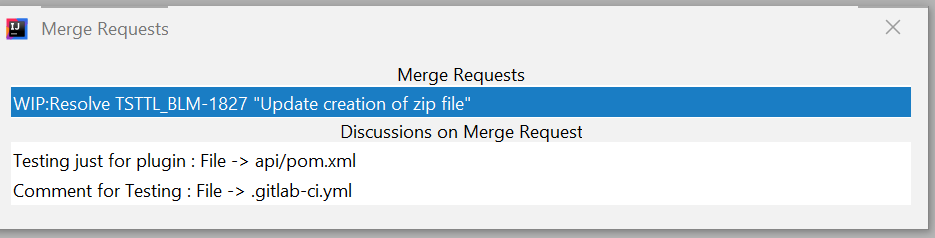
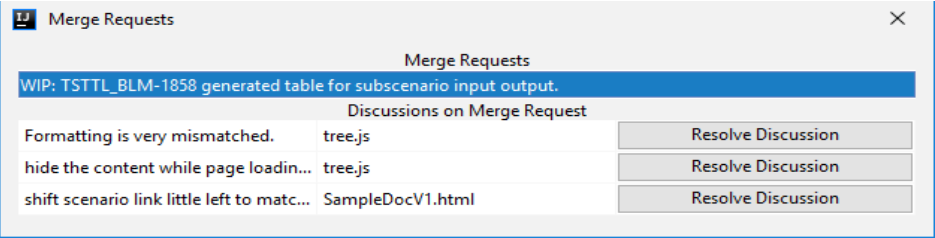
Resolve Feature updates and performance improvements

diff --git a/src/main/kotlin/com/mg/git/discussion/GetGitDisucussion.kt b/src/main/kotlin/com/mg/git/discussion/GetGitDisucussion.kt
@@ -7,17 +7,12 @@ import org.gitlab.api.Pagination
 import org.gitlab.api.models.GitlabMergeRequest
 import org.gitlab.api.models.GitlabProject
 
-fun gitLabMergeRequests(listOfMergeRequest: List<GitlabMergeRequest>): ArrayList<MergeRequestModel> {
-    var listOfMergeRequestsModels = ArrayList<MergeRequestModel>()
-    for (gitlabMergeRequest in listOfMergeRequest) {
-        var discussionsList = getMRDiscussions(gitlabMergeRequest)
-        var mergeRequestModel = MergeRequestModel(gitlabMergeRequest, discussionsList)
-        listOfMergeRequestsModels.add(mergeRequestModel)
-    }
-    return listOfMergeRequestsModels
+fun gitLabMergeRequestsWithDiscussions(gitlabMergeRequest: GitlabMergeRequest): MergeRequestModel {
+    var discussionsList = getMRDiscussions(gitlabMergeRequest)
+    return MergeRequestModel(gitlabMergeRequest, discussionsList)
 }
 
-fun getMRDiscussions(mergeRequest: GitlabMergeRequest): List<GitLabDiscussionsModel> {
+private fun getMRDiscussions(mergeRequest: GitlabMergeRequest): List<GitLabDiscussionsModel> {
     val tailUrl = GitlabProject.URL + "/" + mergeRequest.projectId +
             GitlabMergeRequest.URL + "/" + mergeRequest.iid +
             GitLabDiscussionsModel.URL + Pagination().withPerPage(Pagination.MAX_ITEMS_PER_PAGE).toString()
@@ -26,6 +21,6 @@ fun getMRDiscussions(mergeRequest: GitlabMergeRequest): List<GitLabDiscussionsMo
         .getAll(tailUrl, Array<GitLabDiscussionsModel>::class.java)
         .filter { models -> models.notes.get(0).type == "DiffNote" && !models.notes.get(0).isResolved }
 
-    listOfGitLabDiscussionsModel.forEach { model-> model.notes.forEach { note-> note.discussionId = model.id }}
+    listOfGitLabDiscussionsModel.forEach { model -> model.notes.forEach { note -> note.discussionId = model.id } }
     return listOfGitLabDiscussionsModel
 }

diff --git a/src/test/kotlin/com/mg/discussion/DiscussionResolutionTest.kt b/src/test/kotlin/com/mg/discussion/DiscussionResolutionTest.kt
@@ -1,7 +1,7 @@
 package com.mg.discussion
 
 import com.mg.git.discussion.ResolveMRDiscussionsController
-import com.mg.git.merge.getMergeRequests
+import com.mg.git.merge.getAllMergeRequests
 import com.mg.mergerequest.GitTestCommons
 import org.junit.jupiter.api.Order
 import org.junit.jupiter.api.Test
@@ -14,20 +14,19 @@ class DiscussionResolutionTest : GitTestCommons() {
     @Test
     @Order(1)
     fun resolveDiscussion_shouldResolveDiscussionThread() {
-        val listOfMergeRequest = getMergeRequests(projectId)
+        val listOfMergeRequest = getAllMergeRequests(projectId)
         val resolveMergeRequestDiscussions = ResolveMRDiscussionsController()
-        val result = resolveMergeRequestDiscussions.resolveDiscussion(discussionId, projectId, listOfMergeRequest.get(0), true);
+        val result = resolveMergeRequestDiscussions.resolveDiscussion(discussionId, listOfMergeRequest.get(0), true);
         assertEquals(true, result)
     }
 
     @Test
     @Order(10)
     fun unResolveDiscussion_shouldUnResolveDiscussionThread() {
-        val listOfMergeRequest = getMergeRequests(projectId)
+        val listOfMergeRequest = getAllMergeRequests(projectId)
         val resolveMergeRequestDiscussions = ResolveMRDiscussionsController()
         val result = resolveMergeRequestDiscussions.resolveDiscussion(
             discussionId,
-            projectId,
             listOfMergeRequest.get(0),
             false
         );

diff --git a/src/main/kotlin/com/mg/git/MainTester.kt b/src/main/kotlin/com/mg/git/MainTester.kt
@@ -1,8 +1,8 @@
 package com.mg.git
 
 import com.mg.git.connection.GitConnectionProvider
-import com.mg.git.discussion.gitLabMergeRequests
-import com.mg.git.merge.getMergeRequests
+import com.mg.git.discussion.gitLabMergeRequestsWithDiscussions
+import com.mg.git.merge.getAllMergeRequests
 
 val hostUrl = "https://innersource.soprasteria.com/"
 val token = System.getenv("ENV_GIT_TOKEN")
@@ -10,15 +10,13 @@ val nameSpace = "t-tool"
 val projectName = "t-tool"
 
 fun main() {
-    GitConnectionProvider.getGitConnectionInstance(hostUrl, token)
+    GitConnectionProvider.createGitConnectionInstance(hostUrl, token)
     GitConnectionProvider.fetchProjectId(nameSpace, projectName)
 
-    var listOfMergeRequest = getMergeRequests(GitConnectionProvider.projectId)
-    var listOfMergeRequestsModels = gitLabMergeRequests(listOfMergeRequest)
+    var listOfMergeRequest = getAllMergeRequests(GitConnectionProvider.projectId)
+    var listOfMergeRequestsModels = gitLabMergeRequestsWithDiscussions(listOfMergeRequest.get(0))
 
-    for (model in listOfMergeRequestsModels) {
-        println(model.mergeRequest.id)
-        println(model.listOfMRDiscussions.size)
-    }
+    println(listOfMergeRequestsModels.mergeRequest.assignee)
+    println(listOfMergeRequestsModels.listOfMRDiscussions.size)
 
 }

diff --git a/src/test/kotlin/com/mg/mergerequest/TestMergeRequestDiscussions.kt b/src/test/kotlin/com/mg/mergerequest/TestMergeRequestDiscussions.kt
@@ -1,20 +1,18 @@
 package com.mg.mergerequest
 
-import com.mg.git.discussion.getMRDiscussions
-import com.mg.git.discussion.gitLabMergeRequests
-import com.mg.git.merge.MergeRequestModel
-import com.mg.git.merge.getMergeRequests
+import com.mg.git.discussion.gitLabMergeRequestsWithDiscussions
+import com.mg.git.merge.getAllMergeRequests
 import org.junit.jupiter.api.Test
 import kotlin.test.assertEquals
 import kotlin.test.assertNotNull
 
-class TestMergeRequestDiscussions : GitTestCommons(){
+class TestMergeRequestDiscussions : GitTestCommons() {
 
     @Test
     fun readMergeRequest_shouldReadMergeRequest() {
-        var listOfMergeRequest = getMergeRequests(projectId)
-        var listOfMergeRequestsModels = gitLabMergeRequests(listOfMergeRequest)
+        var listOfMergeRequest = getAllMergeRequests(projectId)
+        var listOfMergeRequestsModels = gitLabMergeRequestsWithDiscussions(listOfMergeRequest.get(0))
         assertNotNull(listOfMergeRequestsModels)
-        assertEquals(2, listOfMergeRequestsModels.size)
+        assertEquals(2, listOfMergeRequestsModels.listOfMRDiscussions.size)
     }
 }

diff --git a/src/main/kotlin/com/mg/git/discussion/ResolveMRDiscussionsController.kt b/src/main/kotlin/com/mg/git/discussion/ResolveMRDiscussionsController.kt
@@ -13,16 +13,15 @@ class ResolveMRDiscussionsController {
 
     fun resolveDiscussion(
         discussionId: String,
-        projectId: Int,
         mergeRequest: GitlabMergeRequest,
         resolveFlag: Boolean
     ): Boolean? {
         val tailUrl = GitlabProject.URL + "/" + mergeRequest.projectId +
                 GitlabMergeRequest.URL + "/" + mergeRequest.iid +
                 GitLabDiscussionsModel.URL + "/" + discussionId + Pagination().withPerPage(Pagination.MAX_ITEMS_PER_PAGE).toString() + resolved + resolveFlag
-        var httpRequestor: GitlabHTTPRequestor = GitConnectionProvider.gitlabAPI.retrieve()
-        httpRequestor = httpRequestor.method("PUT")
-        var model: GitLabDiscussionsModel? = httpRequestor.to(tailUrl, GitLabDiscussionsModel::class.java)
+        var httpRequester: GitlabHTTPRequestor = GitConnectionProvider.gitlabAPI.retrieve()
+        httpRequester = httpRequester.method("PUT")
+        var model: GitLabDiscussionsModel? = httpRequester.to(tailUrl, GitLabDiscussionsModel::class.java)
         return model?.notes?.get(0)?.isResolved!!
     }
 

diff --git a/src/main/kotlin/com/mg/git/provider/GitLabMergeRequestProvider.kt b/src/main/kotlin/com/mg/git/provider/GitLabMergeRequestProvider.kt
@@ -1,0 +1,18 @@
+package com.mg.git.provider
+
+import com.mg.git.connection.GitConnectionProvider
+import com.mg.git.discussion.gitLabMergeRequestsWithDiscussions
+import com.mg.git.merge.MergeRequestModel
+import com.mg.git.merge.getAllMergeRequests
+import org.gitlab.api.models.GitlabMergeRequest
+
+class GitLabMergeRequestProvider : GitIntegrationProvider {
+
+    override fun getAllMergeRequests(): List<GitlabMergeRequest> {
+        return getAllMergeRequests(GitConnectionProvider.projectId)
+    }
+
+    override fun getMergeRequestsWithDiscussions(mergeRequest: GitlabMergeRequest): MergeRequestModel {
+        return gitLabMergeRequestsWithDiscussions(mergeRequest)
+    }
+}

diff --git a/src/main/kotlin/com/mg/git/provider/GitIntegrationProvider.kt b/src/main/kotlin/com/mg/git/provider/GitIntegrationProvider.kt
@@ -1,0 +1,17 @@
+package com.mg.git.provider
+
+import com.mg.git.connection.GitConnectionProvider
+import com.mg.git.merge.MergeRequestModel
+import org.gitlab.api.models.GitlabMergeRequest
+
+interface GitIntegrationProvider {
+
+    fun initializeGitConnection(hostUrl: String, nameSpace: String, projectName: String, token: String) {
+        GitConnectionProvider.createGitConnectionInstance(hostUrl, token)
+        GitConnectionProvider.fetchProjectId(nameSpace, projectName)
+    }
+
+    fun getAllMergeRequests(): List<GitlabMergeRequest>
+
+    fun getMergeRequestsWithDiscussions(mergeRequest: GitlabMergeRequest): MergeRequestModel
+}

diff --git a/src/test/kotlin/com/mg/mergerequest/GitTestCommons.kt b/src/test/kotlin/com/mg/mergerequest/GitTestCommons.kt
@@ -13,7 +13,7 @@ open class GitTestCommons {
             val token = System.getenv("ENV_GIT_TOKEN")
             val nameSpace = "t-tool"
             val projectName = "t-tool"
-            GitConnectionProvider.getGitConnectionInstance(hostUrl, token)
+            GitConnectionProvider.createGitConnectionInstance(hostUrl, token)
             GitConnectionProvider.fetchProjectId(nameSpace, projectName)
             projectId = GitConnectionProvider.projectId
         }

diff --git a/src/main/kotlin/com/mg/git/merge/MergeRequest.kt b/src/main/kotlin/com/mg/git/merge/MergeRequest.kt
@@ -3,4 +3,4 @@ package com.mg.git.merge
 import com.mg.git.connection.GitConnectionProvider
 import org.gitlab.api.models.GitlabMergeRequest
 
-fun getMergeRequests(projectId: Int?): List<GitlabMergeRequest> = GitConnectionProvider.gitlabAPI.getOpenMergeRequests(projectId)
+fun getAllMergeRequests(projectId: Int?): List<GitlabMergeRequest> = GitConnectionProvider.gitlabAPI.getOpenMergeRequests(projectId)

diff --git a/src/main/kotlin/com/mg/git/connection/GitConnectionProvider.kt b/src/main/kotlin/com/mg/git/connection/GitConnectionProvider.kt
@@ -7,7 +7,7 @@ object GitConnectionProvider {
     @JvmField
     var projectId = 0
 
-    fun getGitConnectionInstance(hostUrl: String, token: String) {
+    fun createGitConnectionInstance(hostUrl: String, token: String) {
         gitlabAPI = GitlabAPI.connect(hostUrl, token)
     }
 

diff --git a/src/main/java/com/mg/plugin/dialog/GitMRDialog.java b/src/main/java/com/mg/plugin/dialog/GitMRDialog.java
@@ -4,16 +4,16 @@ import com.intellij.dvcs.repo.Repository;
 import com.intellij.dvcs.repo.VcsRepositoryManager;
 import com.intellij.openapi.project.Project;
 import com.intellij.openapi.ui.messages.MessageDialog;
-import com.mg.git.merge.MergeRequestModel;
+import com.mg.git.provider.GitIntegrationProvider;
 import com.mg.git.utils.GitConnectionUtils;
 import com.mg.git.utils.HostURLModel;
-import com.mg.mergerequest.GitLabMergeRequestController;
+import com.mg.git.provider.GitLabMergeRequestProvider;
 import com.mg.plugin.ProvideSwingComponentsUtilsKt;
+import org.gitlab.api.models.GitlabMergeRequest;
 
 import javax.swing.*;
 import java.util.List;
 import java.util.Optional;
-import java.util.stream.Collectors;
 
 public class GitMRDialog extends MessageDialog {
 
@@ -21,7 +21,9 @@ public class GitMRDialog extends MessageDialog {
     private static String[] optionsUser = {};
     private String currentBranch = "master";
     public static Project project;
-    private List<MergeRequestModel> myMergeRequestModelList;
+    private List<GitlabMergeRequest> gitlabMergeRequests;
+    private GitIntegrationProvider gitLabMergeRequestController;
+
     public GitMRDialog(boolean canBeParent) {
         super(project, "Merge Request Handler", "Merge Requests", optionsUser, 1, null, canBeParent);
     }
@@ -30,34 +32,33 @@ public class GitMRDialog extends MessageDialog {
     protected JComponent createCenterPanel() {
         super.createCenterPanel();
         panelWrapperCreator = new PanelWrapperCreator();
+        gitLabMergeRequestController = new GitLabMergeRequestProvider();
         HostURLModel hostURLModel = getHostURLModel();
-        myMergeRequestModelList = new GitLabMergeRequestController().
-                getMergeRequests(hostURLModel.getHost(), hostURLModel.getAlias(), hostURLModel.getProjectName(), System.getenv("ENV_GIT_TOKEN"));
+        gitLabMergeRequestController.initializeGitConnection(hostURLModel.getHost(), hostURLModel.getAlias(), hostURLModel.getProjectName(), System.getenv("ENV_GIT_TOKEN"));
+        gitlabMergeRequests = gitLabMergeRequestController.getAllMergeRequests();
         addComponentsToPanel();
         return panelWrapperCreator.getPanelWrapper();
     }
 
     private void addComponentsToPanel() {
-        List<MergeRequestModel> myMergeRequestModelListForCurrentBranch = myMergeRequestModelList.stream().filter(mergeRequestModel -> mergeRequestModel.getMergeRequest().getSourceBranch().equalsIgnoreCase(currentBranch))
-                .collect(Collectors.toList());
+        Optional<GitlabMergeRequest> mergeRequestForSelectedBranch = gitlabMergeRequests.stream().filter(mergeRequest -> mergeRequest.getSourceBranch().equalsIgnoreCase(currentBranch)).findFirst();
 
-        if (myMergeRequestModelListForCurrentBranch.isEmpty())
+        if (!mergeRequestForSelectedBranch.isPresent())
             panelWrapperCreator.addComponentToPanelWrapper(ProvideSwingComponentsUtilsKt.makeJLabelComponent("No Merge Request for branch : " + currentBranch, ""));
-        else
-            myMergeRequestModelListForCurrentBranch.forEach(mergeRequestModel -> {
-                final DefaultListModel<String> l1 = new DefaultListModel<>();
-                l1.addElement(mergeRequestModel.getMergeRequest().getTitle());
-                final JList<String> mergeRequestsJList = ProvideSwingComponentsUtilsKt.makeJListComponent(l1, "");
-                addListActionListener(mergeRequestsJList);
-                ProvideSwingComponentsUtilsKt.makeJLabelComponent(" Merge Requests ", "");
-                panelWrapperCreator.addComponentToPanelWrapper(ProvideSwingComponentsUtilsKt.makeJLabelComponent(" Merge Requests ", ""));
-                panelWrapperCreator.addComponentToPanelWrapper(mergeRequestsJList);
-            });
+        else {
+            final DefaultListModel<String> mergeRequestModelJList = new DefaultListModel<>();
+            mergeRequestModelJList.addElement(mergeRequestForSelectedBranch.get().getTitle());
+            final JList<String> mergeRequestsJList = ProvideSwingComponentsUtilsKt.makeJListComponent(mergeRequestModelJList, "");
+            addListActionListener(mergeRequestsJList, mergeRequestForSelectedBranch.get());
+            ProvideSwingComponentsUtilsKt.makeJLabelComponent(" Merge Requests ", "");
+            panelWrapperCreator.addComponentToPanelWrapper(ProvideSwingComponentsUtilsKt.makeJLabelComponent(" Merge Requests ", ""));
+            panelWrapperCreator.addComponentToPanelWrapper(mergeRequestsJList);
+        }
     }
 
-    private void addListActionListener(JList<String> mergeRequestsList) {
+    private void addListActionListener(JList<String> mergeRequestsList, GitlabMergeRequest mergeRequestForSelectedBranch) {
         mergeRequestsList.addListSelectionListener(l ->
-                new DiscussionPanel(panelWrapperCreator.getPanelWrapper(), mergeRequestsList.getSelectedValue(), myMergeRequestModelList, this)
+                new DiscussionPanel(panelWrapperCreator.getPanelWrapper(), mergeRequestsList.getSelectedValue(), mergeRequestForSelectedBranch, this)
                         .createDiscussionPanel()
         );
     }

diff --git a/src/main/java/com/mg/plugin/dialog/DiscussionPanel.java b/src/main/java/com/mg/plugin/dialog/DiscussionPanel.java
@@ -1,51 +1,44 @@
 package com.mg.plugin.dialog;
 
 import com.mg.git.merge.MergeRequestModel;
-import com.mg.mergerequest.GitLabDiscussionsModel;
+import com.mg.git.provider.GitLabMergeRequestProvider;
 import com.mg.plugin.ProvideSwingComponentsUtilsKt;
+import org.gitlab.api.models.GitlabMergeRequest;
 import org.jetbrains.annotations.NotNull;
 
 import javax.swing.*;
 import java.awt.*;
 import java.util.ArrayList;
 import java.util.List;
-import java.util.Optional;
 
 public class DiscussionPanel {
 
     private String selectedValue;
-    private List<MergeRequestModel> myMergeRequestModelList;
+    private MergeRequestModel myMergeRequestModel;
     private JPanel panelWrapper;
-    private List<GitLabDiscussionsModel> gitLabUserDiscussionsModelList;
     private GitMRDialog gitMRDialog;
 
-    public DiscussionPanel(JPanel panelWrapper, String selectedValue, List<MergeRequestModel> myMergeRequestModelList, GitMRDialog gitMRDialog) {
+    public DiscussionPanel(JPanel panelWrapper, String selectedValue, GitlabMergeRequest mergeRequestForSelectedBranch, GitMRDialog gitMRDialog) {
         this.panelWrapper = panelWrapper;
         this.selectedValue = selectedValue;
-        this.myMergeRequestModelList = myMergeRequestModelList;
+        this.myMergeRequestModel = new GitLabMergeRequestProvider().getMergeRequestsWithDiscussions(mergeRequestForSelectedBranch);
         this.gitMRDialog = gitMRDialog;
         List<Component> userRemovalComponent = new ArrayList<>();
         for (Component comp : panelWrapper.getComponents())
-            if ("DiscussionPanelTable".equalsIgnoreCase(comp.getName()) || "DiscussionLabel".equalsIgnoreCase(comp.getName()))
+            if ("DiscussionPanelTable".equalsIgnoreCase(comp.getName()) || "DiscussionLabel".equalsIgnoreCase(comp.getName())
+            || "NoDiscussionLabel".equalsIgnoreCase(comp.getName()))
                 userRemovalComponent.add(comp);
         userRemovalComponent.forEach(comp -> panelWrapper.remove(comp));
-        gitLabUserDiscussionsModelList = new ArrayList<>();
         panelWrapper.updateUI();
     }
 
     public void createDiscussionPanel() {
         final JLabel discussionLabel = makeJLabel();
         panelWrapper.add(discussionLabel);
-        Optional<MergeRequestModel> mergeRequestModelOptional =
-                myMergeRequestModelList.stream().filter(model -> model.getMergeRequest().getTitle().equalsIgnoreCase(selectedValue)).findFirst();
-        if (mergeRequestModelOptional.isPresent()) {
-            gitLabUserDiscussionsModelList = mergeRequestModelOptional.get().getListOfMRDiscussions();
-            if (!gitLabUserDiscussionsModelList.isEmpty())
-                new DiscussionTableDialog().addComponent(panelWrapper, gitLabUserDiscussionsModelList, mergeRequestModelOptional.get(), gitMRDialog);
-            else
-                panelWrapper.add(new JLabel("There is no discussion on this merge request !!!"));
-        }
-        panelWrapper.updateUI();
+        if (!myMergeRequestModel.getListOfMRDiscussions().isEmpty())
+            new DiscussionTableDialog().addComponent(panelWrapper, myMergeRequestModel, gitMRDialog);
+        else
+            panelWrapper.add(ProvideSwingComponentsUtilsKt.makeJLabelComponent("There is no discussion on this merge request !!!", "NoDiscussionLabel"));
     }
 
     @NotNull
